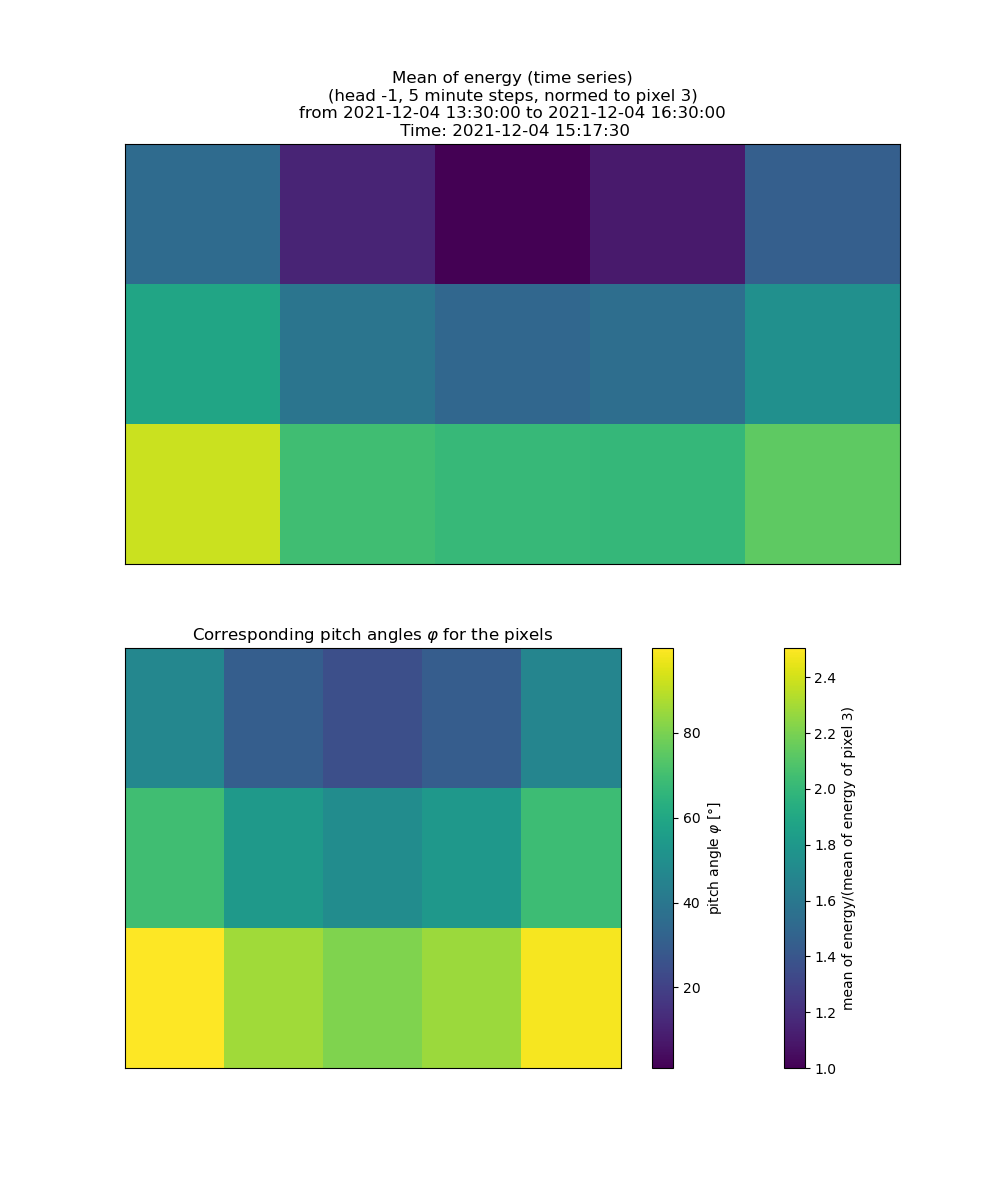
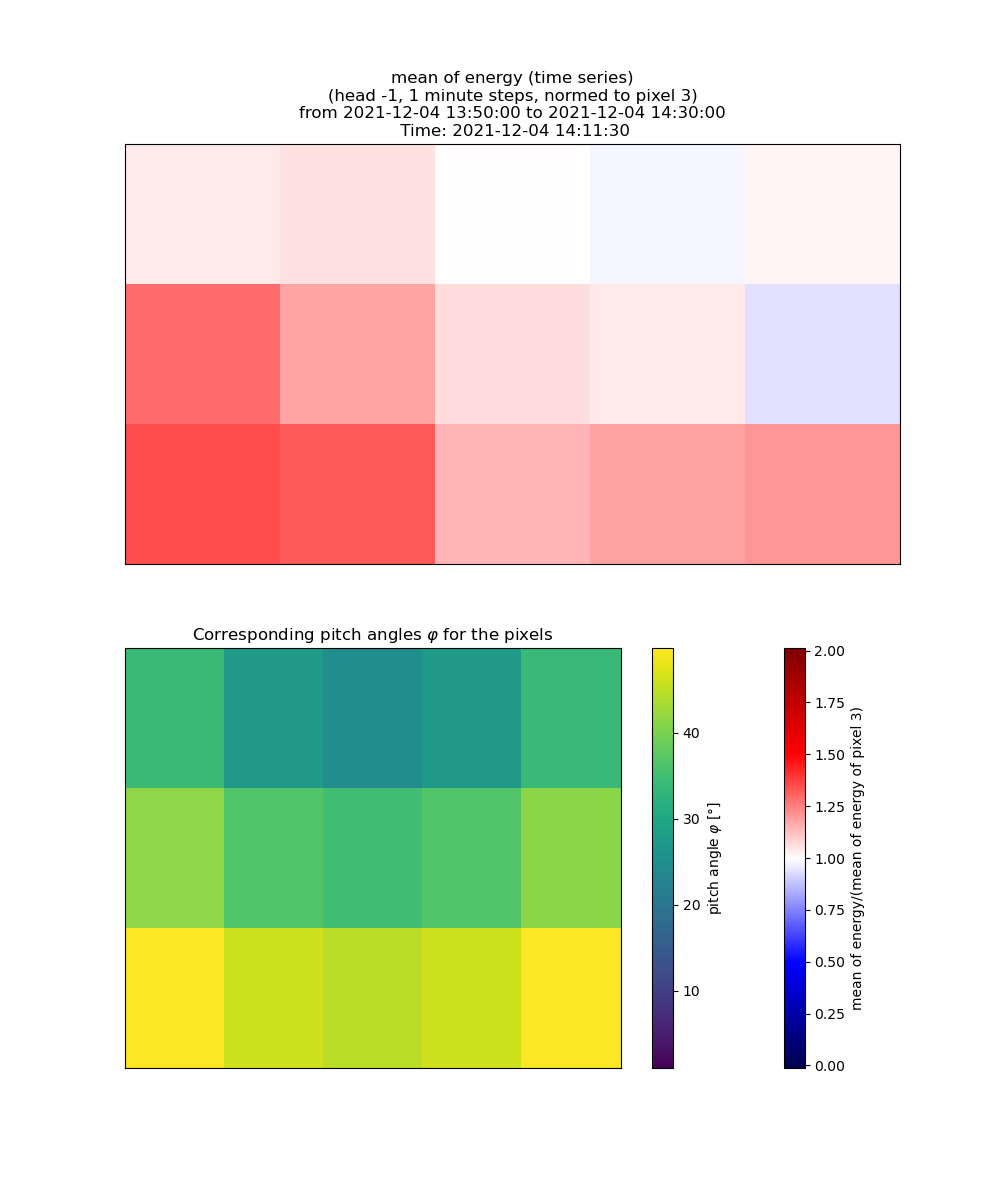
Warum funktioniert die gitignore nicht so wie sie zu funktionieren hat?????????

diff --git a/STEP.py b/STEP.py
@@ -7,9 +7,11 @@ import load_nom_II as ld
 import plot_nom_II as pt
 import math
 import mag
+import matplotlib.gridspec as gridspec
 
 from PIL import Image
 import glob
+import os
 
 from scipy.optimize import curve_fit
 
@@ -379,6 +381,26 @@ class STEP():
                 #plt.savefig('TS_%i_%.2i:%.2i:%.2i-%i_%.2i:%.2i:%.2i_H%i_%s_%s.pdf'%(ptime[0].day,ptime[0].hour,ptime[0].minute,ptime[0].second,ptime[-2].day,ptime[-2].hour,ptime[-2].minute,ptime[-2].second,head,norm,res))
         print('Plotted TS_%.4i_%.2i_%.2i_%.2i-%.2i-%.2i-%i_%.2i-%.2i-%.2i_H%i_%s_%s.png'%(ptime[0].year,ptime[0].month,ptime[0].day,ptime[0].hour,ptime[0].minute,ptime[0].second,ptime[-2].day,ptime[-2].hour,ptime[-2].minute,ptime[-2].second,head,norm,res) + ' successfully.')
         
+        
+    def calc_pw(self,period,window_width=5):
+        '''Berechnung der Pitchwinkel'''
+        # Maske, da ich nur die Magnetfelddaten innerhalb von period brauche:
+        mask = (self.mag.time > period[0]) * (self.mag.time <= period[1])
+        pw = [[] for i in range(15)]
+        
+        i = 0
+        while (period[0] + dt.timedelta(minutes=(i+1)*window_width)) <= period[1]:
+            
+            for k in [i for i in range(1,16)]:
+                # Mittelung der Pitchwinkel (k-1, da ich keine Zeit im array stehen habe)
+                pw_data = self.mag.pitchangles[k-1][mask]
+                new_pw = np.sum(pw_data[i*window_width:(i+1)*window_width])/window_width
+                pw[k-1].append(new_pw)
+            i +=1
+        return pw
+
+    
+    
     def calc_energy_means(self,ebins=ebins,res = '1min', head = -1, period = (dt.datetime(2021,12,4,13,30),dt.datetime(2021,12,4,16,30)), grenzfunktion=None, below=True, box_list=None, window_width=5, pixel_list=[i for i in range(1,16)], norm = 'tmax', overflow = True, esquare = False):
         '''Wichtig: Die Energie ist in keV angegeben!!!
         Falls andere Zeitauflösung als Minuten gewählt wird, kann es Probleme mit window_width und der Berechnung der Zeit geben.
@@ -520,32 +542,60 @@ class STEP():
         plt.legend()
         plt.savefig(rpath)
         
+    def pixel_comparison(self, pixel_means, pw, rpath, pixel1, pixel2):
+        '''Vergleich zweier Pixel mit Energie-Mittelwerten und Pitchwinkel.'''
+        plt.figure(figsize=(10,12))
+        gs = gridspec.GridSpec(2,1,height_ratios=[3,1])
+        ax = plt.subplot(gs[0])
+        ax_pw = ax.twinx()
+        ax_quot = plt.subplot(gs[1],sharex=ax)
+        ax_quot_pw = ax_quot.twinx()
+        for i in [pixel1, pixel2]:
+            ax.plot(pixel_means[0],pixel_means[i],marker='x',label=f'energy mean of pixel {i}')
+            ax_pw.plot(pixel_means[0],pw[i-1],marker="^",label=f'pitch angle of pixel {i}')
+        ax.set_ylabel('mean of energy [keV]')
+        ax_pw.set_ylabel('pitch angle [°]')
+
+        # Hier mal rumspielen, ob ich eventuell eine brauchbare Korrektur finden kann...
+        # pw1_ayuda = np.radians(np.array(pw[pixel2-1]))
+        # pw2_ayuda = np.radians(np.array(pw[pixel1-1]))
+        pw1_ayuda = np.array(pw[pixel2-1])
+        pw2_ayuda = np.array(pw[pixel1-1])
+
+        ax_quot.plot(pixel_means[0],pixel_means[pixel2]/pixel_means[pixel1],marker='x',label='quotient of energy means',c='tab:red')
+        ax_quot_pw.plot(pixel_means[0],pw1_ayuda/pw2_ayuda,marker='^',label='quotient of pitch angles',c='tab:green')
+        ax_quot.set_ylabel('quotient of energy means')
+        ax_quot_pw.set_ylabel('quotient of pitch angles')
+        ax_quot.set_xlabel('time')
+        ax_quot.tick_params(axis='x',labelrotation=45)
+        ax.set_title('Comparison of energy means and pitch angles')
+        ax.legend(loc='upper left')
+        ax_pw.legend(loc='upper right')
+        ax_quot.legend(loc='upper left')
+        ax_quot_pw.legend(loc='upper right')
+        plt.subplots_adjust(hspace=0.001)
+        plt.savefig(rpath)
         
         
-    def distribution_ring(self, filename, title, head, norm, period, grenzfunktion=None,below=True,box_list=None, norm_pixel=3, correction = False, save='gif/', res = '1min', overflow = True, esquare = False,window_width = 5, close=False, sorted_by_energy=False):
+        
+    def distribution_ring(self, filename, title, head, norm, period, grenzfunktion=None,below=True,box_list=None, norm_pixel=3, correction = False, save='gif/', res = '1min', overflow = True, esquare = False,window_width = 5, close=True, sorted_by_energy=False):
         '''Darstellung von means der einzelnen Pixel und Pitchwinkel als GIF. Es soll die ringförmige Verteilung deutlich werden. Code basiert auf minütlichen Daten!!!'''
         
         # Berechnung der Energie-Mittelwerte und Mittelung der Pitchwinkel über Intervalle der Länge window_width
         
-        # Maske, da ich nur die Magnetfelddaten innerhalb von period brauche:
-        mask = (self.mag.time >= period[0]) * (self.mag.time < period[1])
-        pw = [[] for i in range(15)]
+        # Zunächst alle Bilddateien aus gif/-Ordner löschen, um Probleme beim erstellen der Gifs zu vermeiden.
+        dir = "gif_images"
+        filelist = glob.glob(os.path.join(dir,"*"))
+        for f in filelist:
+            os.remove(f)
         
         
         # Berechnung der Energiemittelwerte
         # pixel_list kann bei Aufruf von distribution_ring nicht verändert werden, da ich eh alle Pixel brauche...
-        pixel_means = self.calc_energy_means(ebins=ebins,res=res,head=head,period=period,grenzfunktion=grenzfunktion,below=below,box_list=box_list,window_width=window_width,pixel_list=[i for i in range(0,16)],norm=norm,overflow=overflow,esquare=esquare)
-            
+        pixel_means = self.calc_energy_means(ebins=ebins,res=res,head=head,period=period,grenzfunktion=grenzfunktion,below=below,box_list=box_list,window_width=window_width,pixel_list=[i for i in range(1,16)],norm=norm,overflow=overflow,esquare=esquare)
+        
         # Berechnung der Pitchwinkel
-        i = 0
-        while (period[0] + dt.timedelta(minutes=(i+1)*window_width)) <= period[1]:
-            
-            for k in [i for i in range(1,16)]:
-                # Mittelung der Pitchwinkel (k-1, da ich keine Zeit im array stehen habe)
-                pw_data = self.mag.pitchangles[k-1][mask]
-                new_pw = np.sum(pw_data[i*window_width:(i+1)*window_width])/window_width
-                pw[k-1].append(new_pw)
-            i +=1
+        pw = self.calc_pw(period=period,window_width=window_width)
             
         if sorted_by_energy:
             ind = np.argsort(pixel_means[norm_pixel])
@@ -580,7 +630,7 @@ class STEP():
                 vmax_pw = np.nanmax(pw[k-1])
             if np.nanmin(pw[k-1]) < vmin_pw:
                 vmin_pw = np.nanmin(pw[k-1])
-                    
+                                  
                     
         
         # Plotting
@@ -602,7 +652,11 @@ class STEP():
             fig, axes = plt.subplots(2,1,figsize=(10,12))
             
             ax = axes[0]
-            tmp = ax.pcolormesh(x_corners,y_corners,data_means,vmin=vmin,vmax=vmax)
+            
+            # Nehme betraglich größte Differenz für colorbar
+            v_ayuda = max(abs(vmax-1.0),abs(1.0-vmin))
+            
+            tmp = ax.pcolormesh(x_corners,y_corners,data_means,vmin=1.0-v_ayuda,vmax=1.0+v_ayuda,cmap=hmap)
             plt.colorbar(tmp,label=f'mean of energy/(mean of energy of pixel {norm_pixel})')
             ax.get_xaxis().set_visible(False)
             ax.get_yaxis().set_visible(False)

diff --git a/plausibility_pw.py b/plausibility_pw.py
@@ -1,0 +1,56 @@
+#################################################################################################
+# Neuer Plausibilitätscheck für Pitchwinkeleinflüsse. Die Idee ist, dass Pixel, die             #
+# annähernd die gleichen Pitchwinkel sehen, auch die gleichen Energiemittelwerte haben sollten. #
+# Versuche einen ersten Vergleich durchhzuführen.                                               #
+#################################################################################################
+
+from STEP import STEP
+import datetime as dt
+import numpy as np
+import matplotlib.pyplot as plt
+
+
+ebins = np.array([  0.98 ,   2.144,   2.336,   2.544,   2.784,   3.04 ,   3.312,
+         3.6  ,   3.92 ,   4.288,   4.672,   5.088,   5.568,   6.08 ,
+         6.624,   7.2  ,   7.84 ,   8.576,   9.344,  10.176,  11.136,
+        12.16 ,  13.248,  14.4  ,  15.68 ,  17.152,  18.688,  20.352,
+        22.272,  24.32 ,  26.496,  28.8  ,  31.36 ,  34.304,  37.376,
+        40.704,  44.544,  48.64 ,  52.992,  57.6  ,  62.72 ,  68.608,
+        74.752,  81.408,  89.088,  97.28 , 105.984, 115.2  , 125.44 ,
+       137.216, 149.504, 162.816, 178.176, 194.56 , 211.968, 230.4  ,
+       372.736])
+
+
+dat = STEP(2021, 12, 4, magnet_default_path=True)
+# STEP(2021, 12, 4, rpath='data/STEP/')
+
+period =(dt.datetime(2021,12,4,13,50),dt.datetime(2021,12,4,14,30))
+
+def grenz(t):
+    return -0.5*t + 20
+
+pixel_means5 = dat.calc_energy_means(ebins=ebins,head=-1, period=period, grenzfunktion=grenz)
+# pixel_means1 = dat.calc_energy_means(ebins=ebins,head=-1, period=period, grenzfunktion=grenz, window_width=1)
+
+pw5 = dat.calc_pw(period, window_width=5)
+# pw1 = dat.calc_pw(period, window_width=1)
+
+
+### Plots für Pixel mit ähnlichen Pitchwinkeln: ###
+
+dat.pixel_comparison(pixel_means5, pw5, 'plausibility_pw/comparison_5_minutes_pixel_1_5.png', 1, 5)
+dat.pixel_comparison(pixel_means5, pw5, 'plausibility_pw/comparison_5_minutes_pixel_2_4.png', 2, 4)
+dat.pixel_comparison(pixel_means5, pw5, 'plausibility_pw/comparison_5_minutes_pixel_6_10.png', 6, 10)
+dat.pixel_comparison(pixel_means5, pw5, 'plausibility_pw/comparison_5_minutes_pixel_7_9.png', 7, 9)
+dat.pixel_comparison(pixel_means5, pw5, 'plausibility_pw/comparison_5_minutes_pixel_11_15.png', 11, 15)
+dat.pixel_comparison(pixel_means5, pw5, 'plausibility_pw/comparison_5_minutes_pixel_12_14.png', 12, 14)
+    
+# dat.pixel_comparison(pixel_means1, pw1, 'plausibility_pw/comparison_1_minutes_pixel_1_5.png', 1, 5)
+# dat.pixel_comparison(pixel_means1, pw1, 'plausibility_pw/comparison_1_minutes_pixel_2_4.png', 2, 4)
+# dat.pixel_comparison(pixel_means1, pw1, 'plausibility_pw/comparison_1_minutes_pixel_6_10.png', 6, 10)
+# dat.pixel_comparison(pixel_means1, pw1, 'plausibility_pw/comparison_1_minutes_pixel_7_9.png', 7, 9)
+# dat.pixel_comparison(pixel_means1, pw1, 'plausibility_pw/comparison_1_minutes_pixel_11_15.png', 11, 15)
+# dat.pixel_comparison(pixel_means1, pw1, 'plausibility_pw/comparison_1_minutes_pixel_12_14.png', 12, 14)
+
+
+plt.close("all")

diff --git a/Runtime.py b/Runtime.py
@@ -175,7 +175,7 @@ plt.close('all')
 
 
 
-dat.distribution_ring('time_series_energy_means_pw_2021_12_04','mean of energy (time series)',head=-1,norm='tmax',save='runtime_test2/',period=period,grenzfunktion=grenz,below=True)
+dat.distribution_ring('time_series_energy_means_pw_2021_12_04','mean of energy (time series)',head=-1,window_width=1,norm='tmax',save='runtime_test2/',period=period,grenzfunktion=grenz,below=True,close=True)
 
 
 
@@ -200,7 +200,7 @@ pw_mask = (dat.mag.time >= period[0]) * (dat.mag.time < period[1])
 
 # Muss Cosinus-Ausdrücke ansehen...
 
-ratio_pitch = np.cos(dat.mag.pitchangles[i][pw_mask])/np.cos(dat.mag.pitchangles[j][pw_mask])
+ratio_pitch = np.cos(np.radians(dat.mag.pitchangles[i][pw_mask]))/np.cos(np.radians(dat.mag.pitchangles[j][pw_mask]))
 
 # Bestimme die Laufzeit nur, wenn für das entsprchende datetime-Objekt für beide Pixel ein Wert voliegt.
 # Sehr unschöne brute-force-Methode... Bin noch nicht glücklich...
